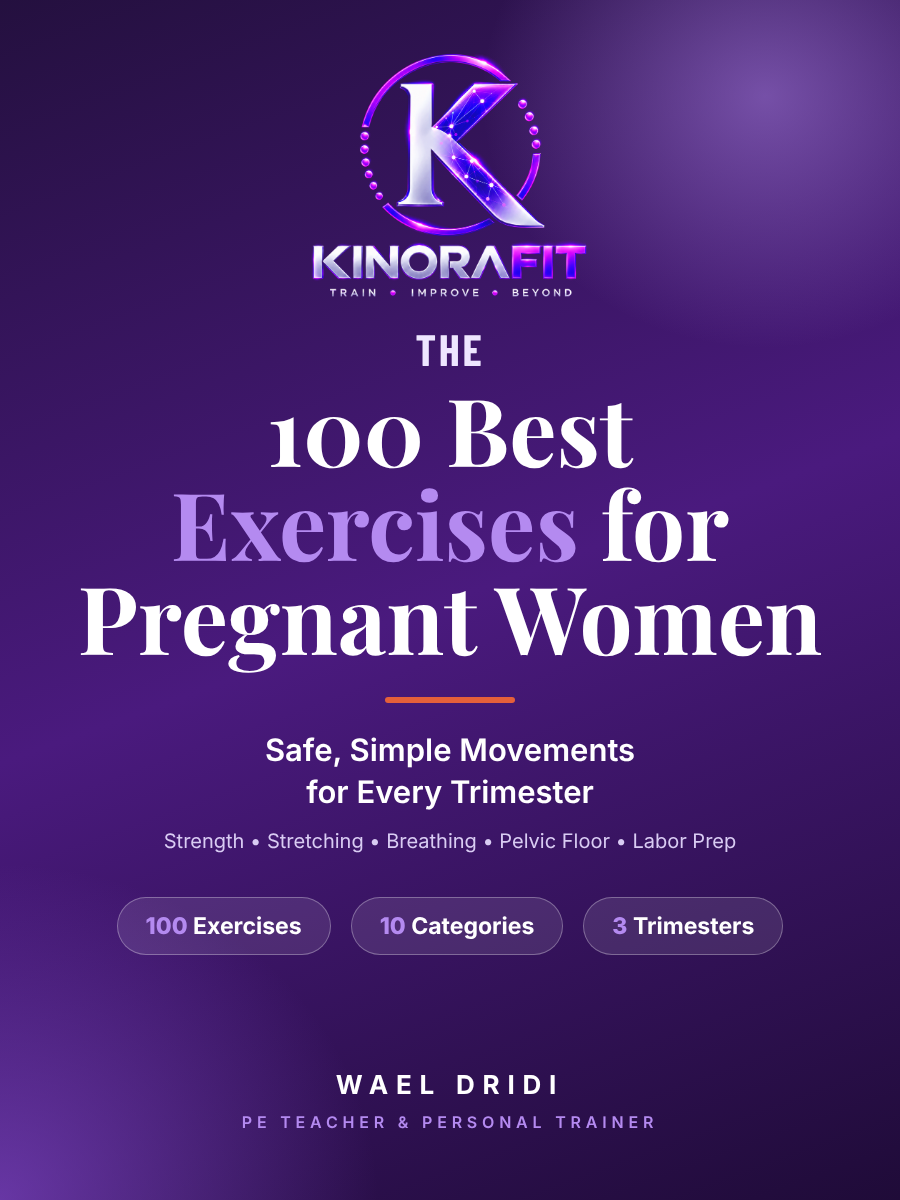
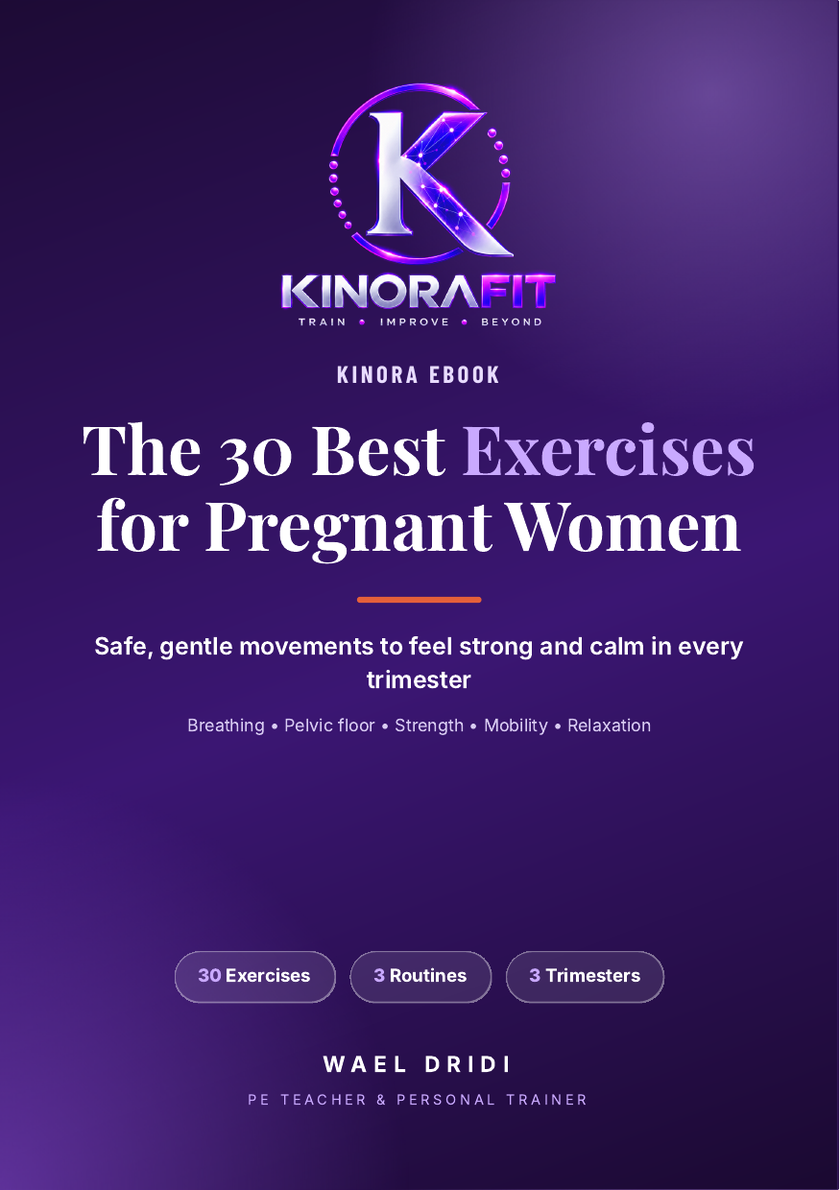
Shop: pregnancy ebook becomes The 30 Best Exercises for Pregnant Women
New cover and card text to match the 30-exercise PDF.

Claude-Session: https://claude.ai/code/session_01WNJZRhf7wREhVSfBgNyoWB

diff --git a/shop.html b/shop.html
@@ -264,19 +264,19 @@
 
       <article class="product reveal" data-type="ebook">
         <div class="cover has-img"><span class="tag"><svg><use href="#i-book"/></svg> Ebook</span>
-          <img class="book-img" src="images/ebook-pregnancy-cover.webp" alt="Cover of the ebook The 100 Best Exercises for Pregnant Women by Wael Dridi" width="900" height="1200"></div>
+          <img class="book-img" src="images/ebook-pregnancy-cover.webp" alt="Cover of the ebook The 30 Best Exercises for Pregnant Women by Wael Dridi" width="840" height="1190"></div>
         <div class="product-body">
-          <h3>The 100 Best Exercises for Pregnant Women</h3>
-          <p>Safe, simple movements for every trimester: 100 illustrated exercises you can do at home with little or no equipment.</p>
+          <h3>The 30 Best Exercises for Pregnant Women</h3>
+          <p>Safe, simple movements for every trimester: 30 exercises explained step by step, to do at home with little or no equipment.</p>
           <ul>
-            <li><svg><use href="#i-tick"/></svg> 100 illustrated exercises in 10 groups</li>
+            <li><svg><use href="#i-tick"/></svg> 30 exercises, step by step, with easier options</li>
             <li><svg><use href="#i-tick"/></svg> Trimester guide and sample weekly plans</li>
             <li><svg><use href="#i-tick"/></svg> Pelvic floor, breathing and labor prep</li>
             <li><svg><use href="#i-tick"/></svg> Safety rules and a printable tracker</li>
           </ul>
           <div class="buy">
             <div class="amount">€9.99<small>one-time payment</small></div>
-            <a href="#" data-buy="https://payhip.com/b/ZKvck" data-wa="Hello Wael, I would like to buy the ebook The 100 Best Exercises for Pregnant Women (€9.99)." class="btn btn-primary">Buy now <svg><use href="#i-arrow"/></svg></a>
+            <a href="#" data-buy="https://payhip.com/b/ZKvck" data-wa="Hello Wael, I would like to buy the ebook The 30 Best Exercises for Pregnant Women (€9.99)." class="btn btn-primary">Buy now <svg><use href="#i-arrow"/></svg></a>
           </div>
         </div>
       </article>
